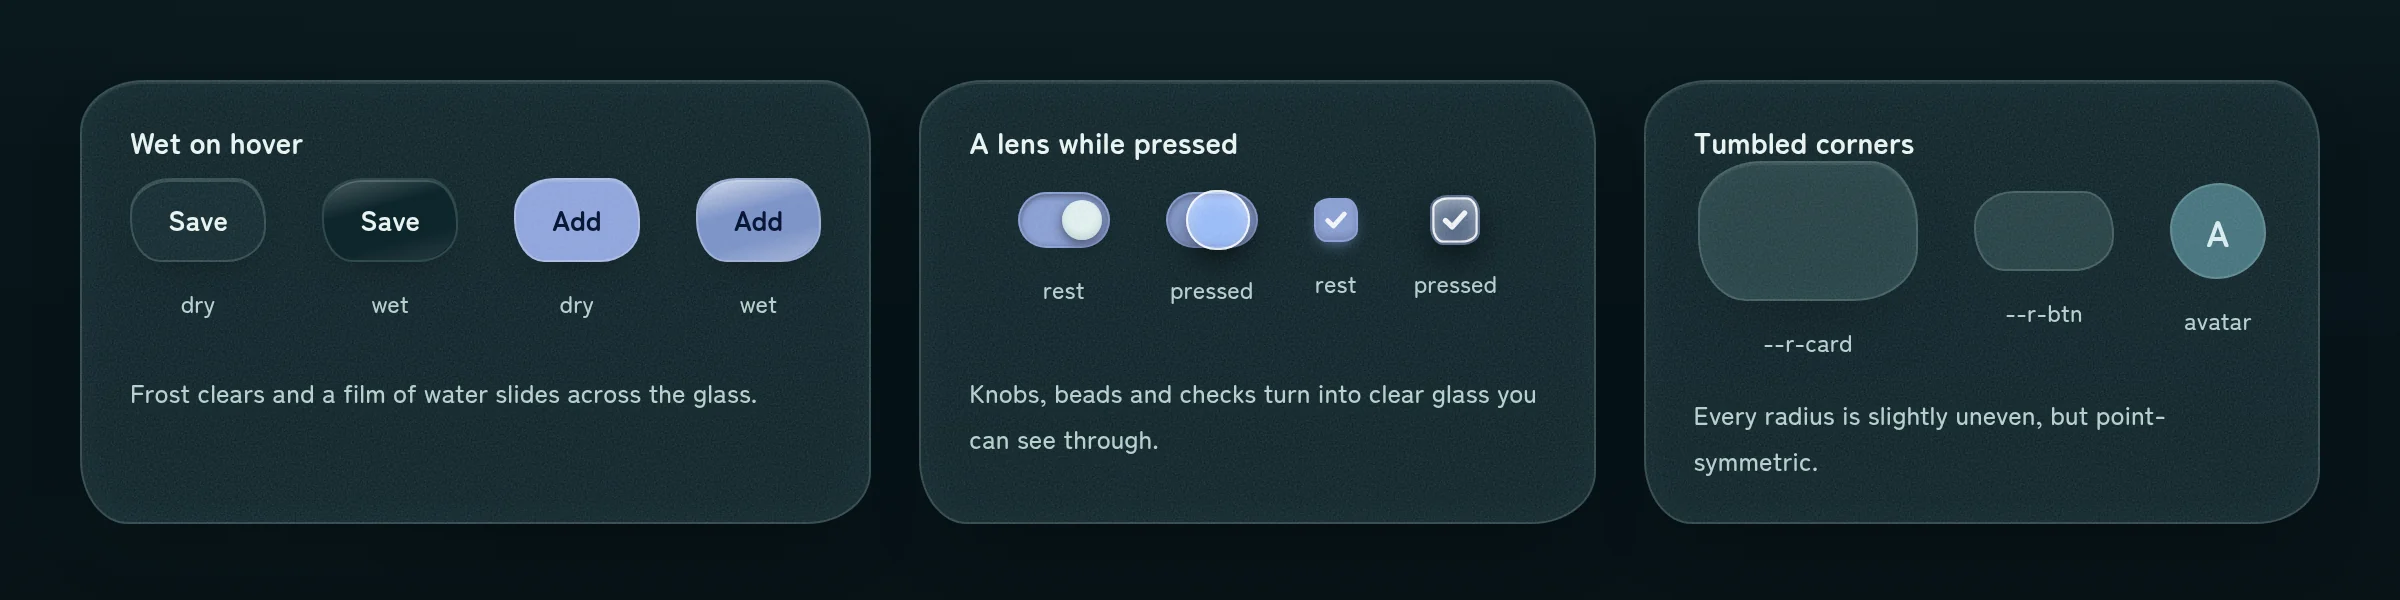
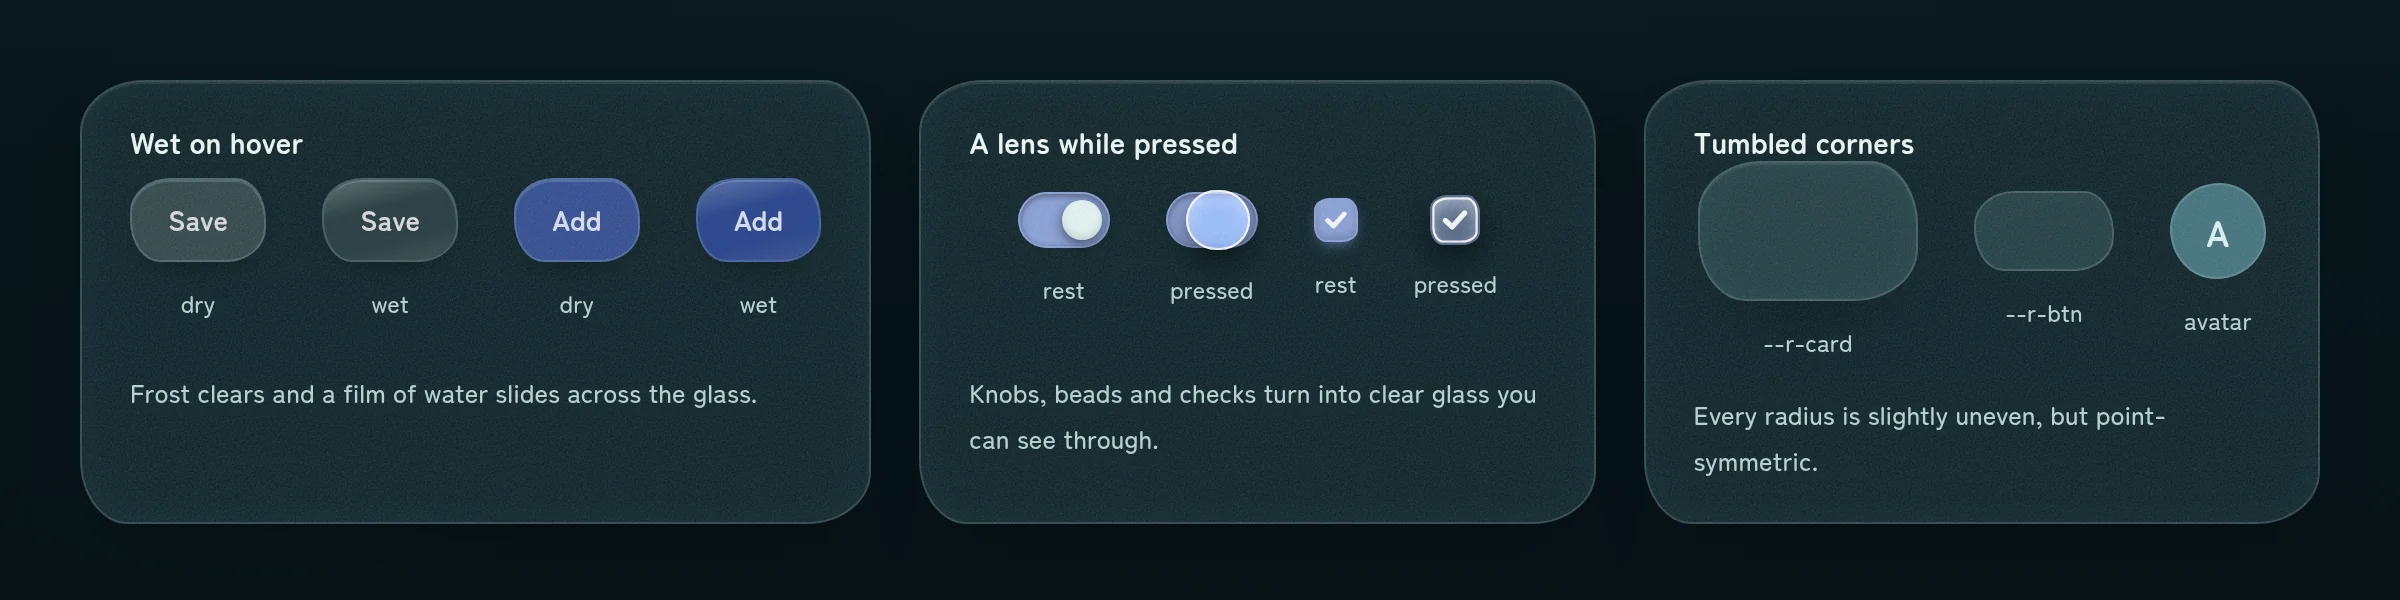
✨ feat: tinted glass for floating controls and an input bar
Buttons and tabs become tinted glass with ink from the same color,
and .composer adds a floating quick-entry bar.

Claude-Session: https://claude.ai/code/session_01QN591hqxUZbeEiL8Tt7Nem

Changed region(s): [[0.0312, 0.3, 0.3438, 0.45]]

diff --git a/seaglass.css b/seaglass.css
@@ -34,7 +34,11 @@
   --well-shadow: light-dark(rgba(26,53,55,.14), rgba(0,0,0,.4));
   --knob: light-dark(rgba(255,255,255,.94), rgba(236,251,248,.94));
   --field: light-dark(rgba(222,236,230,.86), rgba(52,76,79,.66));
-  --track: light-dark(rgba(186,224,210,.78), rgba(43,91,85,.50));
+  /* Tinted glass for floating controls; text on them uses --ink, a deep shade of the same glass. */
+  --glass-cobalt: light-dark(#B3C4F6, #34509E);
+  --glass-sea: light-dark(#BFE2D5, #2B5B55);
+  --glass-milk: light-dark(#E2EDE8, #34494C);
+  --glass-coral: light-dark(#F3C2BA, #7E3530);
   --border: light-dark(rgba(255,255,255,.78), rgba(210,250,240,.18));
   --control-border: light-dark(rgba(26,53,55,.30), rgba(210,250,240,.34));
   --divider: light-dark(rgba(31,59,62,.12), rgba(210,250,240,.12));
@@ -42,9 +46,7 @@
   --text-muted: light-dark(#44605F, #BCD7D3);
   --accent: light-dark(#2B4D9C, #9DB4F5);
   --on-accent: light-dark(#F2F5FF, #0B1838);
-  --accent-edge: light-dark(rgba(255,255,255,.55), rgba(255,255,255,.28));
   --danger: light-dark(#AE3434, #F49A90);
-  --on-danger: light-dark(#FFF4F2, #2A0A08);
   --success: light-dark(#2B775D, #88D8B8);
   --warning: light-dark(#8F5C0E, #EAC27A);
   --info: light-dark(#28717F, #8AD0DD);
@@ -101,6 +103,7 @@
 }
 
 /* ---------- base ---------- */
+.btn, .tabs, .composer { --ink: light-dark(color-mix(in oklab, var(--tint), #06161A 74%), color-mix(in oklab, var(--tint), #FFFFFF 84%)); }
 @property --gap { syntax: "*"; inherits: false; }
 *, *::before, *::after { box-sizing: border-box; }
 body {
@@ -220,12 +223,10 @@ kbd {
 .btn:not(:disabled):is(:hover, :focus-visible)::before { opacity: 1; }
 .btn:not(:disabled):active { translate: 0 1px; box-shadow: inset 0 2px 5px var(--well-shadow); }
 .btn:disabled { opacity: .45; cursor: not-allowed; }
-.btn[data-variant="primary"] { --btn-fg: var(--on-accent); background-color: color-mix(in oklab, var(--accent) 90%, transparent); border-color: var(--accent-edge); }
-.btn[data-variant="primary"]:not(:disabled):hover { background-color: color-mix(in oklab, var(--accent) 80%, transparent); }
-.btn[data-variant="danger"] { --btn-fg: var(--on-danger); background-color: color-mix(in oklab, var(--danger) 90%, transparent); border-color: var(--accent-edge); }
-.btn[data-variant="danger"]:not(:disabled):hover { background-color: color-mix(in oklab, var(--danger) 80%, transparent); }
-.btn:is([data-variant="primary"], [data-variant="danger"])::before { background: linear-gradient(165deg, light-dark(rgba(255,255,255,.55), rgba(255,255,255,.7)) 0%, transparent 38%, transparent 68%, light-dark(rgba(255,255,255,.25), rgba(255,255,255,.35)) 100%); }
-.btn:is([data-variant="primary"], [data-variant="danger"]):not(:disabled):active { box-shadow: inset 0 2px 6px rgba(0,0,0,.28); }
+.btn[data-variant="primary"] { --tint: var(--glass-cobalt); }
+.btn[data-variant="secondary"] { --tint: var(--glass-milk); }
+.btn[data-variant="danger"] { --tint: var(--glass-coral); }
+.btn:is([data-variant="primary"], [data-variant="secondary"], [data-variant="danger"]) { --btn-fg: var(--ink); background-color: color-mix(in oklab, var(--tint) 88%, transparent); }
 .btn[data-variant="ghost"] { background-color: transparent; background-image: none; border-color: transparent; box-shadow: none; -webkit-backdrop-filter: none; backdrop-filter: none; }
 .btn[data-variant="ghost"]:not(:disabled):hover { background-color: var(--surface-2); }
 .btn[data-size="sm"] { min-height: 34px; padding: 0 12px; font-size: var(--fs-s); }
@@ -591,8 +592,28 @@ select.input {
 .dropzone[data-over] { border-color: var(--accent); background-color: color-mix(in oklab, var(--accent) 8%, var(--well)); }
 .dropzone:has(input:focus-visible) { outline: 2px solid var(--focus); outline-offset: 3px; }
 
+.composer {
+  --tint: var(--glass-milk);
+  display: flex;
+  align-items: center;
+  gap: 2px;
+  padding: 4px 4px 4px 6px;
+  color: var(--ink);
+  background-color: color-mix(in oklab, var(--tint) 86%, transparent);
+  background-image: var(--frost);
+  border-radius: var(--r-btn);
+  box-shadow: inset 0 1px 0 var(--border), 0 8px 18px -12px var(--shadow-c);
+  -webkit-backdrop-filter: blur(16px) saturate(1.2);
+  backdrop-filter: blur(16px) saturate(1.2);
+}
+.composer > input { flex: 1; min-width: 0; padding: 6px; font: inherit; color: var(--ink); background: none; border: 0; outline: none; }
+.composer > input::placeholder { color: color-mix(in oklab, var(--ink) 66%, transparent); }
+.composer .btn[data-variant="ghost"] { --btn-fg: var(--ink); }
+.composer .btn[data-variant="ghost"]:not(:disabled):hover { background-color: transparent; }
+
 /* ---------- navigation ---------- */
 .tabs {
+  --tint: var(--glass-sea);
   position: relative;
   isolation: isolate;
   display: inline-flex;
@@ -601,9 +622,10 @@ select.input {
   width: fit-content;
   max-width: 100%;
   padding: 4px;
-  background-color: var(--track);
+  background-color: color-mix(in oklab, var(--tint) 85%, transparent);
   background-image: var(--frost);
   border-radius: var(--r-btn);
+  box-shadow: inset 0 1px 0 var(--border), 0 8px 18px -12px var(--shadow-c);
   -webkit-backdrop-filter: blur(16px) saturate(1.2);
   backdrop-filter: blur(16px) saturate(1.2);
 }
@@ -630,16 +652,16 @@ select.input {
   font: inherit;
   font-size: 14px;
   font-weight: 700;
-  color: var(--text-muted);
+  color: color-mix(in oklab, var(--ink) 76%, transparent);
   background: none;
   border: 0;
   border-radius: var(--r-btn);
   cursor: pointer;
   transition: color var(--dur) var(--ease);
 }
-.tabs button:hover { color: var(--text); }
+.tabs button:hover { color: var(--ink); }
 .tabs[data-size="sm"] button { padding: 3px 10px; font-size: var(--fs-s); }
-.tabs button:is([aria-selected="true"], [aria-pressed="true"]) { color: var(--text); }
+.tabs button:is([aria-selected="true"], [aria-pressed="true"]) { color: var(--ink); }
 .tabs:not([data-ind]) button:is([aria-selected="true"], [aria-pressed="true"]) { background-color: var(--surface-raised); }
 
 .nav { display: grid; gap: 2px; }
@@ -944,7 +966,7 @@ select.input {
 
 @media (prefers-reduced-transparency: reduce) {
   :root { --surface: var(--surface-solid); --surface-2: light-dark(#D8E6E1, #17323A); --well: var(--surface-2); --tooltip-bg: light-dark(#164240, #305E60); --surface-pop: var(--surface-solid); }
-  .card, .btn, .input, .tabs, .toast, .menu, .dialog, .sheet, [data-tooltip]::after { -webkit-backdrop-filter: none; backdrop-filter: none; }
+  .card, .btn, .input, .tabs, .composer, .toast, .menu, .dialog, .sheet, [data-tooltip]::after { -webkit-backdrop-filter: none; backdrop-filter: none; }
   select.input::picker(select) { -webkit-backdrop-filter: none; backdrop-filter: none; }
 }
 @media (prefers-reduced-motion: reduce) {

diff --git a/catalog.html b/catalog.html
@@ -378,7 +378,7 @@ fieldset.field legend { padding: 0; margin-bottom: 6px; font-size: var(--fs-s); 
       </div>
 
       <!-- Inputs -->
-      <div class="group-head"><h3>Inputs</h3><p class="muted small">Text, select, date, file, choice, slider</p></div>
+      <div class="group-head"><h3>Inputs</h3><p class="muted small">Text, select, date, file, choice, slider, input bar</p></div>
       <div class="grid" style="--min: 320px; --gap: 20px">
         <div class="card specimen">
           <header><h4>Text</h4><code>.field .input</code></header>
@@ -481,6 +481,17 @@ fieldset.field legend { padding: 0; margin-bottom: 6px; font-size: var(--fs-s); 
             <input class="range" id="c-budget" type="range" min="3000" max="30000" step="1000" value="12000">
           </div>
           <p class="note">The thumb is the same glass bead as the switch. It turns into a lens while you hold it.</p>
+        </div>
+
+        <div class="card specimen">
+          <header><h4>Input bar</h4><code>.composer</code></header>
+          <form class="composer" data-demo-composer>
+            <button type="button" class="btn" data-variant="ghost" data-icon data-size="sm" aria-label="Attach receipt"><svg class="icon" viewBox="0 0 24 24" aria-hidden="true"><path d="M12 5v14M5 12h14"/></svg></button>
+            <input placeholder="Lunch, 2,400" aria-label="New expense">
+            <button type="button" class="btn" data-variant="ghost" data-icon data-size="sm" aria-label="Speak"><svg class="icon" viewBox="0 0 24 24" aria-hidden="true"><rect x="9" y="3" width="6" height="11" rx="3"/><path d="M5 11a7 7 0 0 0 14 0M12 18v3"/></svg></button>
+            <button type="submit" class="btn" data-variant="primary" data-icon data-size="sm" aria-label="Add expense"><svg class="icon" viewBox="0 0 24 24" aria-hidden="true"><path d="M12 19V5M6 11l6-6 6 6"/></svg></button>
+          </form>
+          <p class="note">A floating bar for quick entry, like the tabs: no outline and no focus ring, just the caret. Use one per screen, usually pinned to the bottom.</p>
         </div>
       </div>
 
@@ -734,7 +745,12 @@ fieldset.field legend { padding: 0; margin-bottom: 6px; font-size: var(--fs-s); 
   &lt;button class="menu-item"&gt;Edit&lt;/button&gt;
 &lt;/div&gt;
 
-&lt;div class="progress" role="progressbar" aria-valuenow="68"&gt;&lt;span style="--v: 68"&gt;&lt;/span&gt;&lt;/div&gt;</code></pre>
+&lt;div class="progress" role="progressbar" aria-valuenow="68"&gt;&lt;span style="--v: 68"&gt;&lt;/span&gt;&lt;/div&gt;
+
+&lt;form class="composer"&gt;
+  &lt;input placeholder="Lunch, 2,400" aria-label="New expense"&gt;
+  &lt;button class="btn" data-variant="primary" data-icon data-size="sm" aria-label="Add expense"&gt;…&lt;/button&gt;
+&lt;/form&gt;</code></pre>
       </div>
     </div>
   </section>
@@ -855,6 +871,16 @@ fieldset.field legend { padding: 0; margin-bottom: 6px; font-size: var(--fs-s); 
     b.addEventListener("click", function () {
       b.setAttribute("data-loading", "");
       setTimeout(function () { b.removeAttribute("data-loading"); showToast("Receipt scanned"); }, 1600);
+    });
+  });
+
+  document.querySelectorAll("[data-demo-composer]").forEach(function (f) {
+    f.addEventListener("submit", function (e) {
+      e.preventDefault();
+      var input = f.querySelector("input");
+      if (!input.value.trim()) return;
+      input.value = "";
+      showToast("Expense added");
     });
   });
 

diff --git a/skills/seaglass/SKILL.md b/skills/seaglass/SKILL.md
@@ -26,7 +26,7 @@ Every decision should be explainable by one of these. When a request conflicts w
 
 1. **Surfaces are frosted glass.** Cards, buttons, inputs, menus, dialogs and toasts blur what is behind them and carry a fine frost texture. While nothing is touched, draw no highlights or reflections; only edges may glow faintly.
 2. **Corners are tumbled pebbles.** Radii are slightly uneven but point-symmetric (top-left = bottom-right). Use the `--r-*` tokens; never write a single plain radius on a glass element. Boxes that hold running text (`.callout`, code blocks) use even corners (`--r-box`) for readability.
-3. **Rarity is importance.** Common beach colors (white, sea green, sand brown) are for surfaces and dividers. Rare cobalt (`--accent`) is only for actions and selected control state (primary button, checked check/switch, pressed chip, slider fill, links). The rarest, red (`--danger`), is only for destructive actions and failures. Location/selection in navigation (current tab, nav item, page) uses raised white glass (`--surface-raised`), not cobalt. Progress and loading use `--progress-c`. Focus uses sea green (`--focus`).
+3. **Rarity is importance.** Common beach colors (white, sea green, sand brown) are for surfaces and dividers. Rare cobalt is only for actions and selected control state: the primary button is cobalt glass (`--glass-cobalt`), and `--accent` marks checked checks/switches, pressed chips, slider fill and links. The rarest, red (`--danger`), is only for destructive actions and failures. Location/selection in navigation (current tab, nav item, page) uses raised white glass (`--surface-raised`), not cobalt. Progress and loading use `--progress-c`. Focus uses sea green (`--focus`).
 4. **Touch makes it wet.** Hover makes glass clearer with a wet sheen; where there is no glass, a thin water film (`--surface-2`) appears. While pressed, knobs, beads and checks become a clear lens. Buttons sink 1px instead of scaling.
 
 ## Choosing components
@@ -40,6 +40,7 @@ Every decision should be explainable by one of these. When a request conflicts w
 | Overflow actions | `.menu[popover]` anchored to a button |
 | Filter toggles / removable tags | `.chip[aria-pressed]` / `.chip` with `button[data-remove]` |
 | Text input | `.field` > `label` + `.input` (+ `.hint`); `.input-affix` for prefix/icon |
+| Quick entry pinned to the screen | `.composer` (one per screen) |
 | Pick one of few (≤5) | `.check` radios; segmented view switch → `.tabs` |
 | Pick one of many | `select.input` |
 | On/off that applies immediately | `.switch` |
@@ -61,6 +62,7 @@ Full markup for every component, with states: `references/components.md`. Token 
 - Don't use cobalt for decoration, headings, icons, avatars, or "current location". Don't use red for anything that isn't destructive or a failure.
 - Don't use `--success`/`--warning`/`--danger`/`--info` to tell people apart; avatars use `data-glass`.
 - Don't add glossy gradients, glows or reflections on resting elements.
+- Tinted glass (`--glass-*`) is only for floating controls: buttons, tabs, the input bar. Cards and other panes stay neutral.
 - Don't scale buttons on press, and don't add bouncy motion to things the user didn't touch. Motion answers an action.
 - Don't remove focus styles. Don't override `.input:focus` with a cobalt ring.
 - Don't nest frosted cards inside frosted cards; inside a card use `.divider`, `.list`, `.kv`, or `.callout`.

diff --git a/README.md b/README.md
@@ -18,7 +18,7 @@ Every detail in Seaglass comes from one of these.
 |---|---|---|
 | 1 | **Surfaces are frosted glass** | Cards, buttons, inputs, menus and dialogs blur what's behind them and carry a fine frost grain. Nothing shines while it's dry; only edges glow faintly. |
 | 2 | **Corners are tumbled pebbles** | Radii are slightly uneven but point-symmetric, like glass rolled smooth by the sea. Boxes of running text keep even corners for readability. |
-| 3 | **Rarity is importance** | On a real beach, white, green and brown glass are everywhere; cobalt is rare; red is rarest. So surfaces are sand and sea green, **cobalt means "you can act here"**, and **red only means danger**. |
+| 3 | **Rarity is importance** | On a real beach, white, green and brown glass are everywhere; cobalt is rare; red is rarest. So surfaces are sand and sea green, **cobalt means "you can act here"**, and **red only means danger**. Floating controls are tinted pieces of that glass, with text in a deeper shade of the same color. |
 | 4 | **Touch makes it wet** | Hover clears the frost and slides a film of water over the glass. While you press a switch, a radio or a checkbox, its knob turns into a clear lens you can see through. |
 
 ![Wet on hover, lens while pressed, tumbled corners](docs/screenshots/signature.webp)
@@ -48,7 +48,7 @@ Everything a typical app needs, each with hover, focus, pressed, disabled and lo
 |---|---|
 | Basics | Type scale, links, inline code, `kbd`, dividers, layout helpers (`stack`, `row`, `grid`) |
 | Actions | Buttons (primary, secondary, ghost, danger, small, icon, loading), popover menus, filter chips, removable tags |
-| Inputs | Text, search, prefixed amount, textarea, select with a frosted picker, date, file dropzone, checkbox, radio, switch, range slider |
+| Inputs | Text, search, prefixed amount, textarea, select with a frosted picker, date, file dropzone, checkbox, radio, switch, range slider, floating input bar |
 | Navigation | Sliding tabs, segmented control, side nav, breadcrumb, pagination |
 | Display | Stats, key–value lists, lists, tables, badges, sea-glass avatars, tooltips, accordion |
 | Feedback | Callouts, progress (determinate and indeterminate), spinner, skeleton, dialog, side sheet, toast with undo, empty state |

diff --git a/skills/seaglass/references/tokens.md b/skills/seaglass/references/tokens.md
@@ -11,7 +11,6 @@ Values live only in `seaglass.css`; this file lists names and when to use them. 
 | `--surface-solid` | Opaque fallback of `--surface` |
 | `--surface-pop` | Floating glass: menus, select picker, dialogs, sheets |
 | `--surface-2` | Water film: hover on bare items, skeleton |
-| `--track` | Sea-green glass behind tabs and segmented controls |
 | `--surface-raised` | Raised white glass: current tab / nav item / page |
 | `--well`, `--well-shadow` | Recessed tracks: unchecked check/switch, chip, slider rail |
 | `--field` | Input background: pale sea-green glass, so fields read as their own material |
@@ -21,14 +20,27 @@ Values live only in `seaglass.css`; this file lists names and when to use them. 
 | `--control-border` | Border of form controls |
 | `--divider` | Hairlines between rows |
 | `--text`, `--text-muted` | Body text, secondary text |
-| `--accent`, `--on-accent`, `--accent-edge` | Actions and selected control state only |
-| `--danger`, `--on-danger` | Destructive actions, failures |
+| `--accent`, `--on-accent` | Selected control state and links (checked check/switch, pressed chip, slider fill) |
+| `--danger` | Failures and destructive text (invalid fields, danger menu items, callouts) |
 | `--success`, `--warning`, `--info` | Status (badges, callouts, stat deltas) via `data-tone` |
 | `--progress-c` | Progress bars, spinners |
 | `--focus`, `--focus-ring` | Focus indication (sea green) |
 | `--tooltip-bg`, `--tooltip-fg` | Tooltips |
 | `--scrim` | Dialog backdrop |
 | `--shadow-c`, `--shadow-card`, `--shadow-pop` | Depth for cards and floating layers |
+
+### Tinted glass
+
+Floating controls are pieces of tinted glass. Each sets `--tint`; `--ink` (a deep shade of the tint) is computed for text on it.
+
+| Token | Used by |
+|---|---|
+| `--glass-cobalt` | Primary buttons (the action color, as glass) |
+| `--glass-milk` | Secondary buttons, `.composer` |
+| `--glass-sea` | `.tabs` |
+| `--glass-coral` | Danger buttons |
+
+Don't put `--glass-*` on cards or other large panes; they stay neutral frosted glass.
 
 `data-tone="success|warning|danger|info"` sets `--tone` for `.badge`, `.callout`, `.stat-delta` and `.menu-item`.
 `data-glass="aqua|olive|amber|lavender"` colors `.avatar`; no attribute means white glass.

diff --git a/skills/seaglass/references/components.md b/skills/seaglass/references/components.md
@@ -36,6 +36,8 @@ Icons are inline SVG with `class="icon"` (24×24 viewBox, stroke-based, `aria-hi
 
 `data-loading` hides the label and shows a spinner; keep the label text for screen readers.
 
+Primary, secondary and danger buttons are tinted glass (cobalt, milky sea green, coral) with text in a deep shade of the same color. Ghost buttons have no glass until hovered.
+
 ## Menu
 
 Popover API + CSS anchor positioning. Give each pair a unique anchor name.
@@ -91,6 +93,19 @@ For a group label without a single control, use `<span class="label">` inside `.
 ```
 
 Chromium renders a frosted custom picker (`appearance: base-select`); other browsers keep the native list with a themed chevron. Don't build a custom dropdown.
+
+## Input bar
+
+A floating quick-entry bar, styled like the tabs: tinted glass, no outline, no focus ring (the caret is the indicator). One per screen, usually pinned to the bottom. For forms, use `.field` + `.input` instead.
+
+```html
+<form class="composer">
+  <button type="button" class="btn" data-variant="ghost" data-icon data-size="sm" aria-label="Attach receipt">…</button>
+  <input placeholder="Lunch, 2,400" aria-label="New expense">
+  <button type="button" class="btn" data-variant="ghost" data-icon data-size="sm" aria-label="Speak">…</button>
+  <button type="submit" class="btn" data-variant="primary" data-icon data-size="sm" aria-label="Add expense">…</button>
+</form>
+```
 
 ## Dropzone
 
